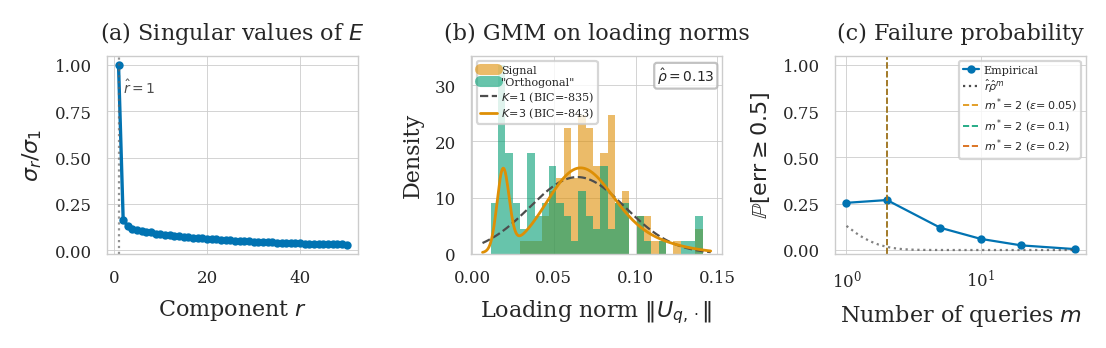
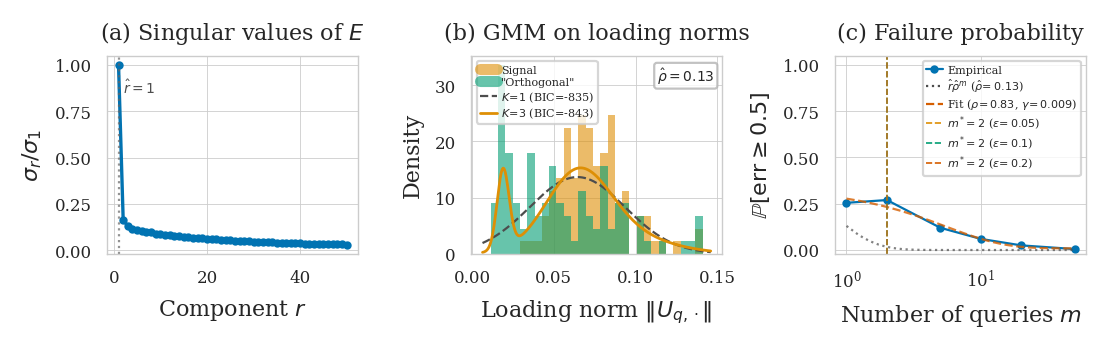
Add fitted r*rho^m + gamma overlay to figure 3(c)
Shows both GMM-estimated bound (rho=0.13) and empirical fit (rho=0.83,
gamma=0.009) to highlight the gap between estimated and effective rho.

diff --git a/bbo/plotting/system_prompt_plots.py b/bbo/plotting/system_prompt_plots.py
@@ -124,6 +124,8 @@ def plot_figure3_system_prompt(
 
     # --- Panel (c): Failure probability P[err >= 0.5] ---
     if fail_csv_path is not None and Path(fail_csv_path).exists():
+        from scipy.optimize import curve_fit
+
         df_fail = pd.read_csv(fail_csv_path)
 
         # Empirical curve: uniform sampling over all queries
@@ -133,14 +135,37 @@ def plot_figure3_system_prompt(
                          marker="o", markersize=2, color=PALETTE[0],
                          linestyle="-", linewidth=0.8, label="Empirical")
 
-        # Theoretical bound: r̂ · ρ̂^m (from the all-queries GMM estimate)
         m_max = df_fail["m"].max()
         m_cont = np.linspace(1, m_max, 200)
 
+        # Theoretical bound: r̂ · ρ̂^m (from the all-queries GMM estimate)
         if rho_hat > 0:
             bound = np.minimum(1.0, r_hat * rho_hat ** m_cont)
             ax_fail.plot(m_cont, bound, color="0.3", linestyle=":",
-                         linewidth=0.8, alpha=0.7, label=r"$\hat{r}\hat{\rho}^m$")
+                         linewidth=0.8, alpha=0.7,
+                         label=f"$\\hat{{r}}\\hat{{\\rho}}^m$"
+                               f" ($\\hat{{\\rho}}\\!={rho_hat:.2f}$)")
+
+        # Fit r·ρ^m + γ(n) to empirical curve
+        if not sub.empty and len(sub) >= 3:
+            m_data = sub["m"].values.astype(float)
+            y_data = sub["failure_prob"].values
+
+            def _bound_model(m, a, rho, gamma):
+                return a * rho ** m + gamma
+
+            try:
+                popt, _ = curve_fit(_bound_model, m_data, y_data,
+                                    p0=[1.0, 0.5, 0.01],
+                                    bounds=([0, 0, 0], [10, 1, 1]))
+                a_fit, rho_fit, gamma_fit = popt
+                y_fit = _bound_model(m_cont, a_fit, rho_fit, gamma_fit)
+                ax_fail.plot(m_cont, y_fit, color=PALETTE[3], linestyle="--",
+                             linewidth=0.8, alpha=0.8,
+                             label=f"Fit: $\\rho\\!={rho_fit:.2f}$,"
+                                   f" $\\gamma\\!={gamma_fit:.3f}$")
+            except RuntimeError:
+                pass
 
         # Vertical lines at m* for multiple ε values
         epsilons = [0.05, 0.1, 0.2]
@@ -151,18 +176,26 @@ def plot_figure3_system_prompt(
                 ax_fail.axvline(x=ms, color=eps_color, linestyle="--",
                                 linewidth=0.6, alpha=0.7)
 
-        # Legend entries for m* lines
+        # Legend
         leg = [Line2D([0], [0], color=PALETTE[0], linestyle="-", lw=0.8,
                        marker="o", markersize=2, label="Empirical")]
         if rho_hat > 0:
             leg.append(Line2D([0], [0], color="0.3", linestyle=":", lw=0.8,
-                              label=r"$\hat{r}\hat{\rho}^m$"))
+                              label=f"$\\hat{{r}}\\hat{{\\rho}}^m$"
+                                    f" ($\\hat{{\\rho}}\\!={rho_hat:.2f}$)"))
+        try:
+            leg.append(Line2D([0], [0], color=PALETTE[3], linestyle="--", lw=0.8,
+                              label=f"Fit ($\\rho\\!={rho_fit:.2f}$,"
+                                    f" $\\gamma\\!={gamma_fit:.3f}$)"))
+        except NameError:
+            pass
         for eps, eps_color in zip(epsilons, eps_colors):
             ms = predict_mstar(r_hat, rho_hat, epsilon=eps)
             if np.isfinite(ms) and ms > 1:
                 leg.append(Line2D([0], [0], color=eps_color, linestyle="--",
                                   lw=0.6,
-                                  label=f"$m^*\\!={ms}$ ($\\epsilon\\!={eps}$)"))
+                                  label=f"$m^*\\!={ms}$"
+                                        f" ($\\epsilon\\!={eps}$)"))
         ax_fail.legend(handles=leg, loc="upper right", fontsize=4)
         ax_fail.set_xscale("log")
         ax_fail.set_ylim(-0.02, 1.05)
